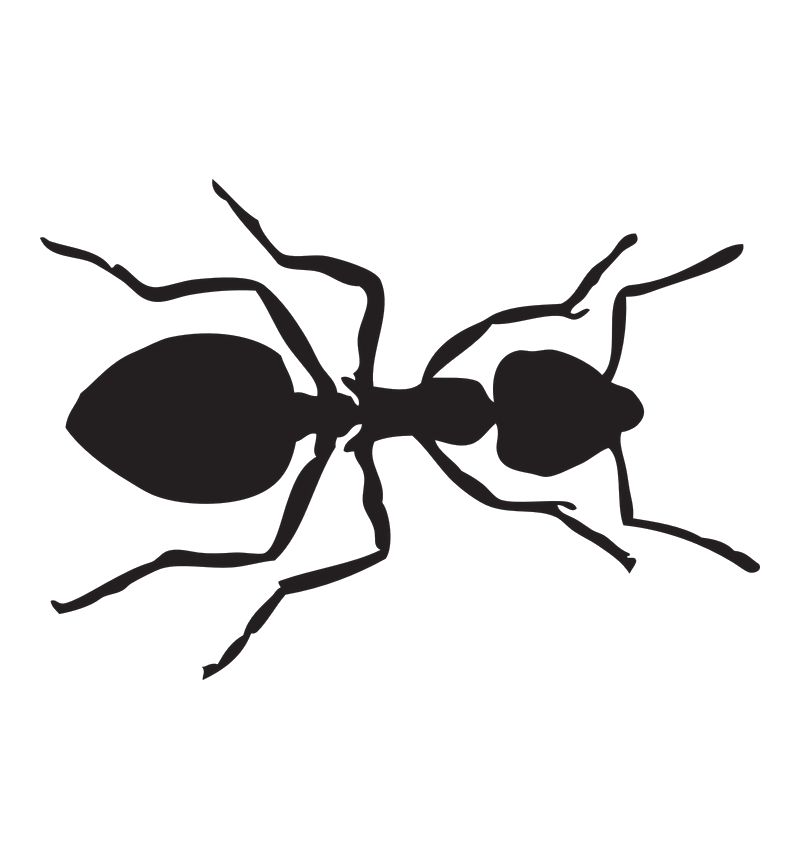
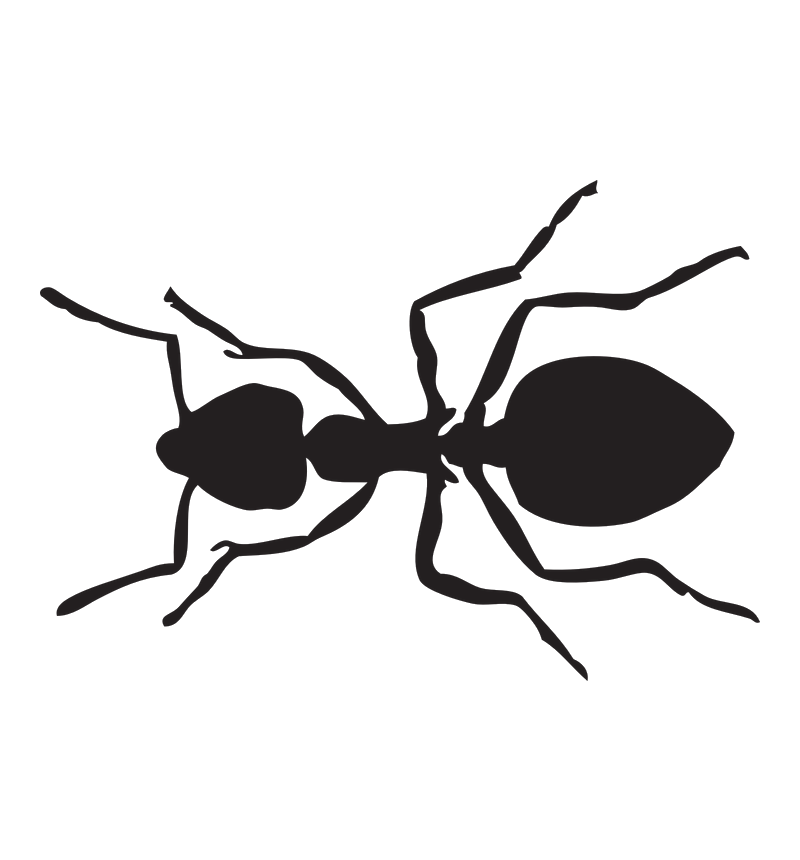
Con hormigas caminando desde hormiguero derecho

diff --git a/AntsInterface/antsInterface.c b/AntsInterface/antsInterface.c
@@ -6,13 +6,14 @@
 int initializeNPC(SDL_Renderer* rend, SDL_Window *win){
 
     //Cargar imagenes
-    SDL_Surface *surface_BlackAnt = IMG_Load("../Resources/blackAnt.png");
-    SDL_Surface *surface_RedAnt = IMG_Load("../Resources/redAnt.png");
+    SDL_Surface *surface_BlackAntR = IMG_Load("../Resources/blackAntR.png");
+    SDL_Surface *surface_RedAntR = IMG_Load("../Resources/redAntR.png");
+    SDL_Surface *surface_BlackAntL = IMG_Load("../Resources/blackAntL.png");
+    SDL_Surface *surface_RedAntL = IMG_Load("../Resources/redAntL.png");
     //Manejo de error al cargar
     if (
-            !surface_BlackAnt || !surface_RedAnt
-
-            ) {
+            !surface_BlackAntR || !surface_RedAntR || !surface_BlackAntL || !surface_RedAntL
+    ) {
         printf("Error creating surface\n");
         SDL_DestroyRenderer(rend);
         SDL_DestroyWindow(win);
@@ -21,14 +22,18 @@ int initializeNPC(SDL_Renderer* rend, SDL_Window *win){
     }
 
     //Crear texturas desde la imagen
-    antSprites.blackRight1 = SDL_CreateTextureFromSurface(rend, surface_BlackAnt);
-    SDL_FreeSurface(surface_BlackAnt);
-    antSprites.redRight1 = SDL_CreateTextureFromSurface(rend, surface_RedAnt);
-    SDL_FreeSurface(surface_RedAnt);
+    antSprites.blackRight1 = SDL_CreateTextureFromSurface(rend, surface_BlackAntR);
+    SDL_FreeSurface(surface_BlackAntR);
+    antSprites.blackLeft1 = SDL_CreateTextureFromSurface(rend, surface_BlackAntL);
+    SDL_FreeSurface(surface_BlackAntL);
+    antSprites.redRight1 = SDL_CreateTextureFromSurface(rend, surface_RedAntR);
+    SDL_FreeSurface(surface_RedAntR);
+    antSprites.redLeft1 = SDL_CreateTextureFromSurface(rend, surface_RedAntL);
+    SDL_FreeSurface(surface_RedAntL);
 
     //Manejo de errores al crear las texturas
     if(
-            !antSprites.blackRight1 || !antSprites.redRight1
+            !antSprites.blackRight1 || !antSprites.blackLeft1 || !antSprites.redRight1 || !antSprites.redLeft1
             ){
         printf("Error creating texture: %s\n",SDL_GetError());
         SDL_DestroyRenderer(rend);
@@ -36,34 +41,56 @@ int initializeNPC(SDL_Renderer* rend, SDL_Window *win){
         SDL_Quit();
         return 1;
     }
+    printf("Initialize NPC succesfull\n");
 }
 
 void spawnAnt(int fila, int columna, enum antType type, char side, Matrix *filas[6]){
     if(antCounter < maxAnts) {
         switch(type){
             case black:
-                printf("Creando hormiga negra");
 
-                SDL_QueryTexture(antSprites.blackRight1, NULL, NULL,&(ants[antCounter].size.w), &(ants[antCounter].size.h));
-                ants[antCounter].currentSprite = blackRight1;
+                if(side == 'r' ){
+
+                    SDL_QueryTexture(antSprites.blackLeft1, NULL, NULL,&(ants[antCounter].size.w), &(ants[antCounter].size.h));
+                    ants[antCounter].currentSprite = blackLeft1;
+                    ants[antCounter].size.x = antHill_x + distanceBetweenHills - 20;
+
+                    ants[antCounter].size.y = antHill_y + 100;
+                }
+                if(side == 'l'){
+
+                    SDL_QueryTexture(antSprites.blackRight1, NULL, NULL,&(ants[antCounter].size.w), &(ants[antCounter].size.h));
+                    ants[antCounter].currentSprite = blackRight1;
+                    ants[antCounter].size.x = x_start_road - 100;
+                    ants[antCounter].size.y = antHill_y + 50;
+                }
                 break;
             case red:
-                printf("Creando hormiga roja");
-                SDL_QueryTexture(antSprites.redRight1, NULL, NULL, &(ants[antCounter].size.w), &(ants[antCounter].size.h));
-                ants[antCounter].currentSprite = redRight1;
+
+                if(side == 'r' ){
+
+                    SDL_QueryTexture(antSprites.redLeft1, NULL, NULL, &(ants[antCounter].size.w), &(ants[antCounter].size.h));
+                    ants[antCounter].currentSprite = redLeft1;
+                    ants[antCounter].size.x = antHill_x + distanceBetweenHills - 20;
+                    ants[antCounter].size.y = antHill_y + 100;
+                }
+                if(side == 'l'){
+
+                    SDL_QueryTexture(antSprites.redRight1, NULL, NULL, &(ants[antCounter].size.w), &(ants[antCounter].size.h));
+                    ants[antCounter].currentSprite = redRight1;
+                    ants[antCounter].size.x = x_start_road - 100;
+                    ants[antCounter].size.y = antHill_y + 50;
+                }
                 break;
 
         }
 
-        ants[antCounter].size.x = x_start_road - 90;
-        ants[antCounter].size.y = antHill_y + 50;
+
         ants[antCounter].size.h *= 0.06;
         ants[antCounter].size.w *= 0.03;
         ants[antCounter].side = side;
         ants[antCounter].x_dest = filas[fila][columna]->x;
         ants[antCounter].y_dest = filas[fila][columna]->y;
-
-
         ants[antCounter].type = type;
 
         antCounter++;
@@ -89,6 +116,10 @@ void updateNPC(SDL_Renderer *rend) {
                     case blackRight1:
                         sprite = antSprites.blackRight1;
                         break;
+
+                    case blackLeft1:
+                        sprite = antSprites.blackLeft1;
+                        break;
                 }
                 break;
             case red:
@@ -99,15 +130,63 @@ void updateNPC(SDL_Renderer *rend) {
                     case redRight1:
                         sprite = antSprites.redRight1;
                         break;
+                    case redLeft1:
+                        sprite = antSprites.redLeft1;
+                        break;
                 }
                 break;
         }
         if(ants[counter].side == 'r'){
-            if(ants[counter].size.x <= x_start_road){
-                ants[counter].size.x += 10;
+
+            if (ants[counter].waiting){
                 SDL_RenderCopy(rend, sprite, NULL, &ants[counter].size);
-                return;
+                continue;
             }
+            int secondVerticalRoad_x = x_start_road + distanceBetweenRoads + w_vertical_road * 2 + 20;
+
+            if(ants[counter].size.x >= secondVerticalRoad_x) {
+                ants[counter].size.x -= 10;
+                SDL_RenderCopy(rend, sprite, NULL, &ants[counter].size);
+                continue;
+            }
+            int disty = ants[counter].size.y - ants[counter].y_dest;
+            if(disty > 0){
+                if(abs(disty) < 10) ants[counter].size.y -= 1;
+                else ants[counter].size.y -= 10;
+
+            }
+            if(disty < 0){
+                if(abs(disty) < 10) ants[counter].size.y += 1;
+                else ants[counter].size.y += 10;
+
+            }
+            int distx = ants[counter].size.x - ants[counter].x_dest;
+
+
+            if (disty == 0){
+                if (distx == 0){
+                    ants[counter].waiting = 1;
+                }
+                
+                if(distx > 0){
+                    if(abs(distx) < 10) ants[counter].size.x -= 1;
+                    if(abs(distx) > 10) ants[counter].size.x -= 10;
+                    SDL_RenderCopy(rend, sprite, NULL, &ants[counter].size);
+                    continue;
+                }
+                if(distx < 0){
+                    if(abs(distx) < 10) ants[counter].size.x += 1;
+                    if(abs(distx) > 10) ants[counter].size.x += 10;
+                    SDL_RenderCopy(rend, sprite, NULL, &ants[counter].size);
+                    continue;
+                }
+            }
+
+
+
+
+            SDL_RenderCopy(rend, sprite, NULL, &ants[counter].size);
+
         }
         if(ants[counter].side == 'l'){
             if (ants[counter].waiting){

diff --git a/AntsInterface/main.c b/AntsInterface/main.c
@@ -44,7 +44,7 @@ int main() {
     //Cargamos las imagenes
     SDL_Surface *background_s = IMG_Load("../Resources/background.png");
     SDL_Surface *anthill_s = IMG_Load("../Resources/antHill.png");
-    SDL_Surface *blackAnt_s = IMG_Load("../Resources/blackAnt.png");
+    SDL_Surface *blackAnt_s = IMG_Load("../Resources/blackAntR.png");
 
 
     if (!anthill_s || !background_s) {
@@ -152,6 +152,7 @@ int main() {
     int redAntRequested = 0;
     int blackAntRequested = 0;
 
+
     initializeNPC(rend,win);
     while (!close_requested) {
 
@@ -184,14 +185,14 @@ int main() {
         if (blackAntRequested){
             printf("Spawn Matrix\n");
             enum antType type = black;
-            spawnAnt(5,5,type,'l',filas);
+            spawnAnt(5,5,type,'r',filas);
             blackAntRequested = 0;
         }
 
         if (redAntRequested){
             printf("Spawn Matrix\n");
             enum antType type = red;
-            spawnAnt(2,3,type,'l', filas);
+            spawnAnt(2,3,type,'r', filas);
             redAntRequested = 0;
         }
         updateNPC(rend);

diff --git a/AntsInterface/variables.c b/AntsInterface/variables.c
@@ -25,7 +25,7 @@ typedef struct {
 
 
 enum antType {black = 0, red = 1};
-enum spritesEnum {blackRight1=0 , redRight1=0};
+enum spritesEnum {blackRight1=0 , redRight1=1, blackLeft1 = 2, redLeft1 = 3};
 
 
 struct Ant{
@@ -41,7 +41,9 @@ struct Ant{
 
 struct AntSprites{
     SDL_Texture *blackRight1; //0
+    SDL_Texture *blackLeft1; //0
     SDL_Texture *redRight1; //0
+    SDL_Texture *redLeft1; //0
 } antSprites;
 
 const int maxAnts = 10;
